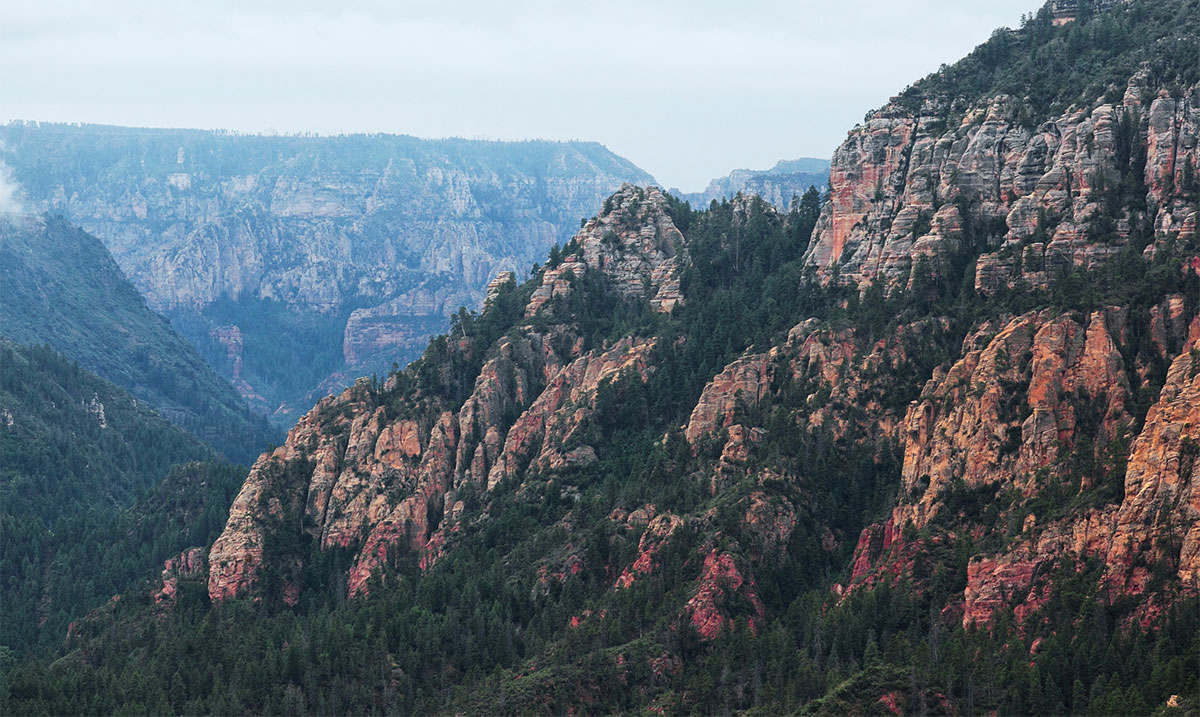
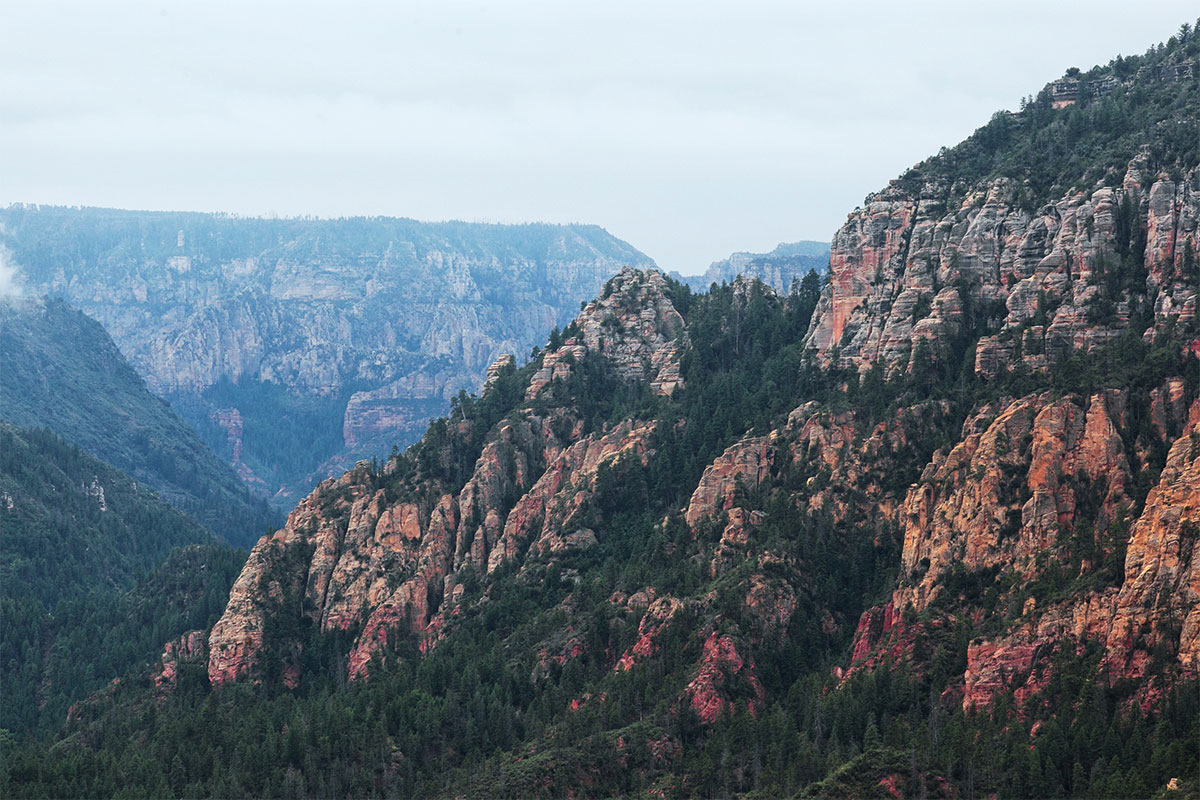
work

diff --git a/index.html b/index.html
@@ -3,13 +3,13 @@
 <head>
 	<meta charset="UTF-8">
 	<title>Седона - Главная страница</title>
+	<link rel="stylesheet" href="normalize.css">
 	<link href='http://fonts.googleapis.com/css?family=Open+Sans:400,700&subset=latin,cyrillic-ext' rel='stylesheet' type='text/css'>
 	<link rel="stylesheet" href="style.css">
 </head>
 <body>
 	<header>
-	    <div class="l-center-wrapper">
-            <div class="head-logo"><a href="#"></a></div>
+        <div class="l-center-wrapper">
             <ul class="head-nav">
                 <li><a href="#">Инфорация</a></li>
                 <li><a href="#">Фото и видео</a></li>
@@ -20,8 +20,8 @@
         </div>
 	</header>
     <div class="content">
-	    <div class="l-center-wrapper">
-           <img src="img/cont-bg.jpg" alt="">
+        <div class="l-center-wrapper">
+           <!--  <img src="img/cont-bg.jpg" alt=""> -->
             <div class="welcome">
                 <p>
                     <span class="welcome-sign">Welcome</span><br>
@@ -64,7 +64,7 @@
                 </div>
             </div>
             <div class="reason reason2">
-                <div class="col1-2">
+                <div class="col col1-2">
                     <img src="http://placehold.it/800x256" alt="Мост дьявола">
                 </div>
                 <div class="col2-1">
@@ -72,45 +72,47 @@
                     <p class="reas-num">№2</p>
                     <p class="reas-desc">Да, по нему можно пройти! Если конечно вы осмелитесь</p>
                 </div>
-                <ul class="more-features">
-                    <li>
-                        <p class="feature-title">Небольшая площадь</p>
-                        <p class="feature-num">№3</p>
-                        <p class="feature-desc">Все достопремечательности находятся очень близко</p>
-                    </li>
-                    <li>
-                        <p class="feature-title">Красивая дорога</p>
-                        <p class="feature-num">№4</p>
-                        <p class="feature-desc">Ехать в Седону из Лас-вегаса совсем не скучно!</p>
-                    </li>
-                    <li>
-                        <p class="feature-title">Мало туристов</p>
-                        <p class="feature-num">№5</p>
-                        <p class="feature-desc">Большинство едет в Гранд Каньон и толпится там</p>
-                    </li>
-                </ul>
+                <div class="more-features">
+                    <ul>
+                        <li>
+                            <p class="feature-title">Небольшая площадь</p>
+                            <p class="feature-num">№3</p>
+                            <p class="feature-desc">Все достопремечательности находятся очень близко</p>
+                        </li>
+                        <li>
+                            <p class="feature-title">Красивая дорога</p>
+                            <p class="feature-num">№4</p>
+                            <p class="feature-desc">Ехать в Седону из Лас-вегаса совсем не скучно!</p>
+                        </li>
+                        <li>
+                            <p class="feature-title">Мало туристов</p>
+                            <p class="feature-num">№5</p>
+                            <p class="feature-desc">Большинство едет в Гранд Каньон и толпится там</p>
+                        </li>
+                    </ul>
+                </div>
             </div>
+            <div class="hotels-preface">
+                <p class="hotel-title">Заинтересовались?</p>
+                <p class="hotel-offer">Укажите предполагаемые даты поездки и мы покажем вам лучшие предложения гостиниц в Седоне</p>
+            </div>
+            <form class="hotel-search-form">
+                <div class="form-title">Поиск гостиницы в Седоне</div>
+                <div class="arg">
+                    <input type="date" name="" id=""><br>
+                    <input type="date" name="" id=""><br>
+                    <input type="number" name="" id="">
+                    <input type="number" name="" id="">
+                    <input type="submit" value="">
+                </div>
+            </form>
             <div class="map">
                 <img src="http://placehold.it/1200x593" alt="Карта">
-            </div>
-            <div class="hotels">
-                <p class="hotel-call">Заинтересовались?</p>
-                <p class="hotel-offer">Укажите предполагаемые даты поездки и мы покажем вам лучшие предложения гостиниц в Седоне</p>
-                <form class="hotel-search-form">
-                    <div class="form-title">Поиск гостиницы в Седоне</div>
-                    <div class="arg">
-                        <input type="date" name="" id=""><br>
-                        <input type="date" name="" id=""><br>
-                        <input type="number" name="" id="">
-                        <input type="number" name="" id="">
-                        <input type="submit" value="">
-                    </div>
-                </form>
             </div>
         </div>
     </div>
 	<footer>
-	    <div class="l-center-wrapper">
+        <div class="l-center-wrapper">
             <p class="foot-tag">#visitsedona</p>
             <ul class="foot-social">
                 <li><a href="#" class="twitter-icon"></a></li>

diff --git a/style.css b/style.css
@@ -1,4 +1,4 @@
-html, body, p{
+html, body{
     padding: 0;
     margin: 0;
 }
@@ -7,6 +7,7 @@ body{
     font-size: 14px;
     font-family: 'Open Sans', sans-serif;
     text-transform: uppercase;
+    background: url("img/cont-bg.jpg") 50% 0 no-repeat;
 }
 
 .l-center-wrapper{
@@ -21,11 +22,14 @@ body{
     clear: both;
 }
 
+header{
+    background: #fff;
+}
+
 header .head-nav{
     list-style: none;
     padding: 0;
     margin: 0;
-    outline: 2px dotted black; 
 }
 
 header .head-nav li{
@@ -49,3 +53,32 @@ header .head-nav li{
 .content{
     //background: url("img/cont-bg.jpg") 0 0 no-repeat;
 }
+
+.col1-1{
+    width: 33%;
+    float: left;
+}
+
+.col2-2{
+    width: 66%;
+}
+
+.features ul li{
+    float: left;
+    width: 33%;
+}
+
+.col1-2{
+    width: 66%;
+    float: left;
+}
+
+.col2-1{
+    width: 33%;
+}
+
+.more-features ul li{
+    float: left;
+    width: 33%;
+}
+
